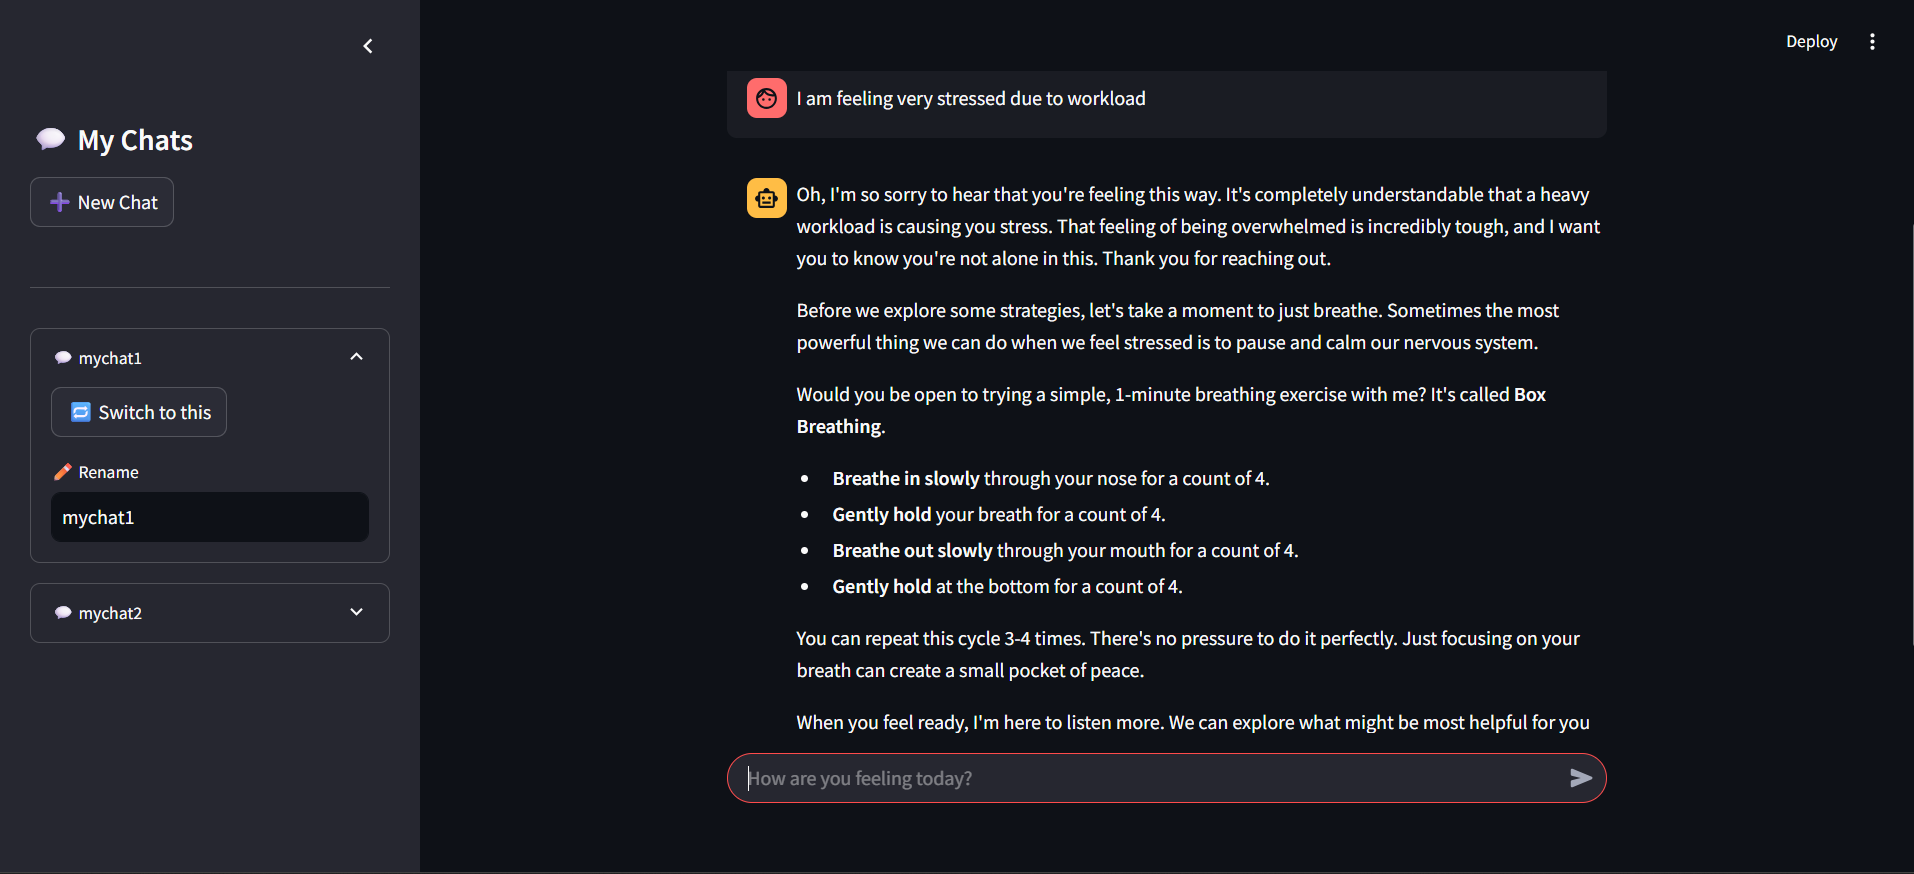
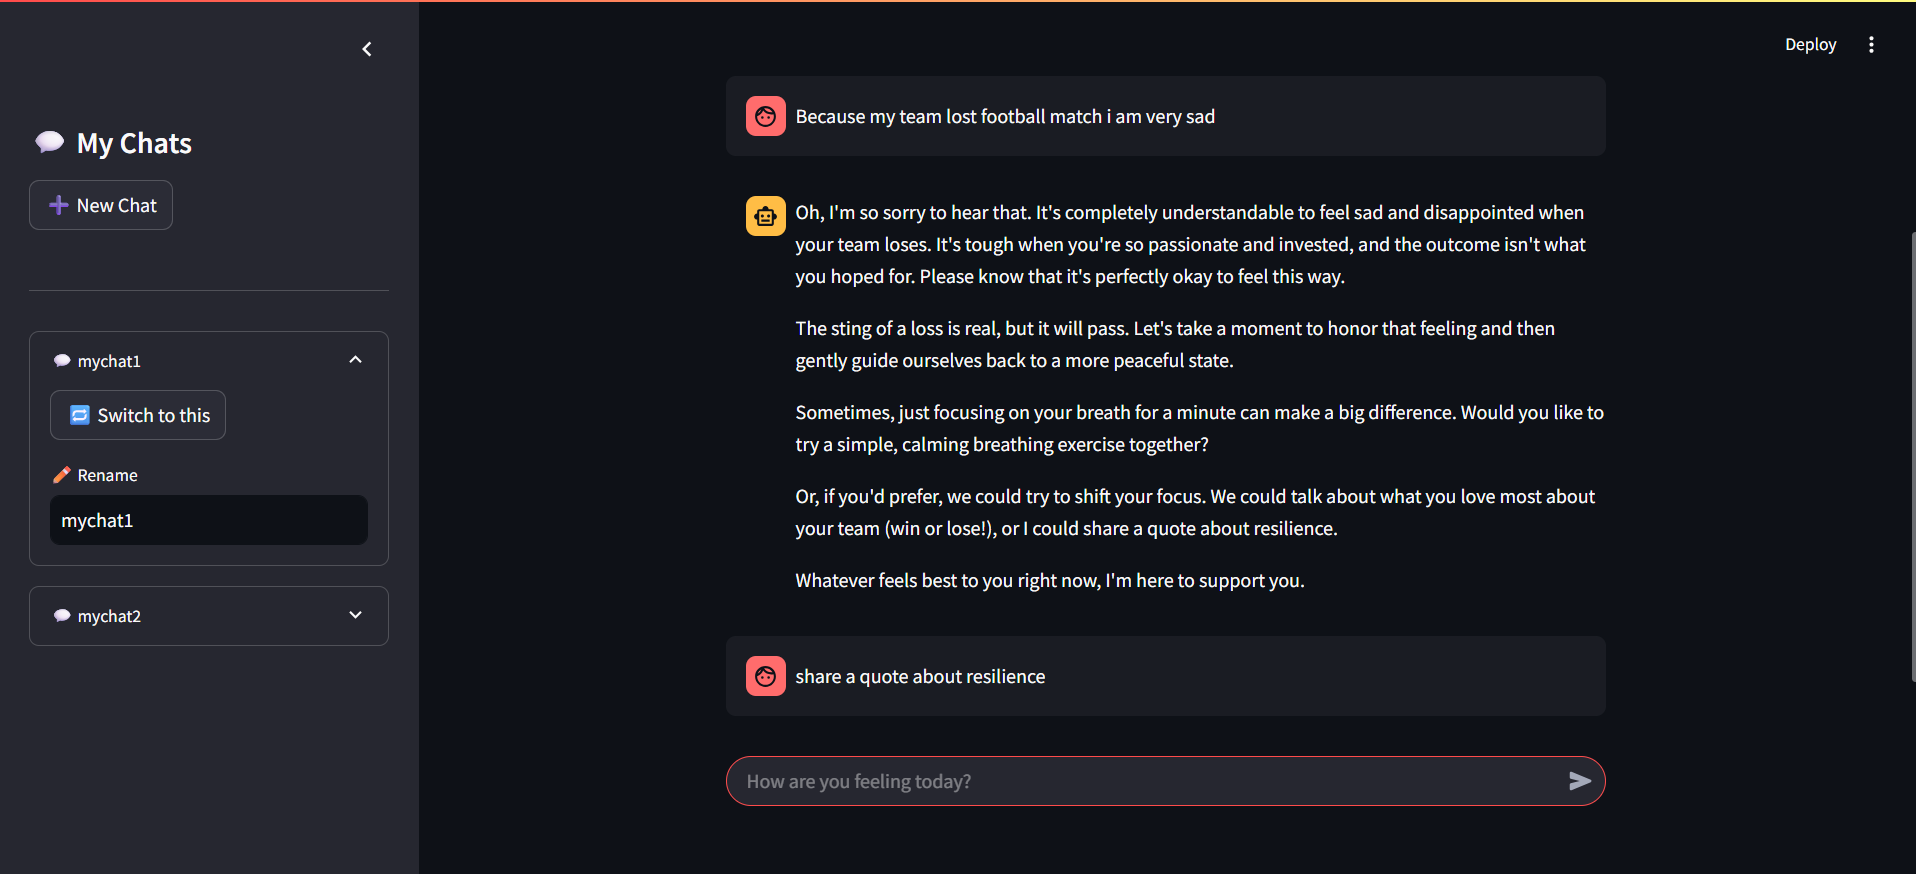
updated readme

diff --git a/README.md b/README.md
@@ -23,6 +23,9 @@ It offers personalized support for stress, anxiety, and low motivation through c
 ### Sidebar Options – with chat1 (switched to this)
 ![Chat Example 1 - also shows side bar setting](chat1.png)
 
+### Continued Session – with chat1
+![chat Example 2 Continued](chat1_cont.png)
+
 ### Chat Session – with chat2 (switched to this)
 ![Chat Example 2](chat2.png)
 
